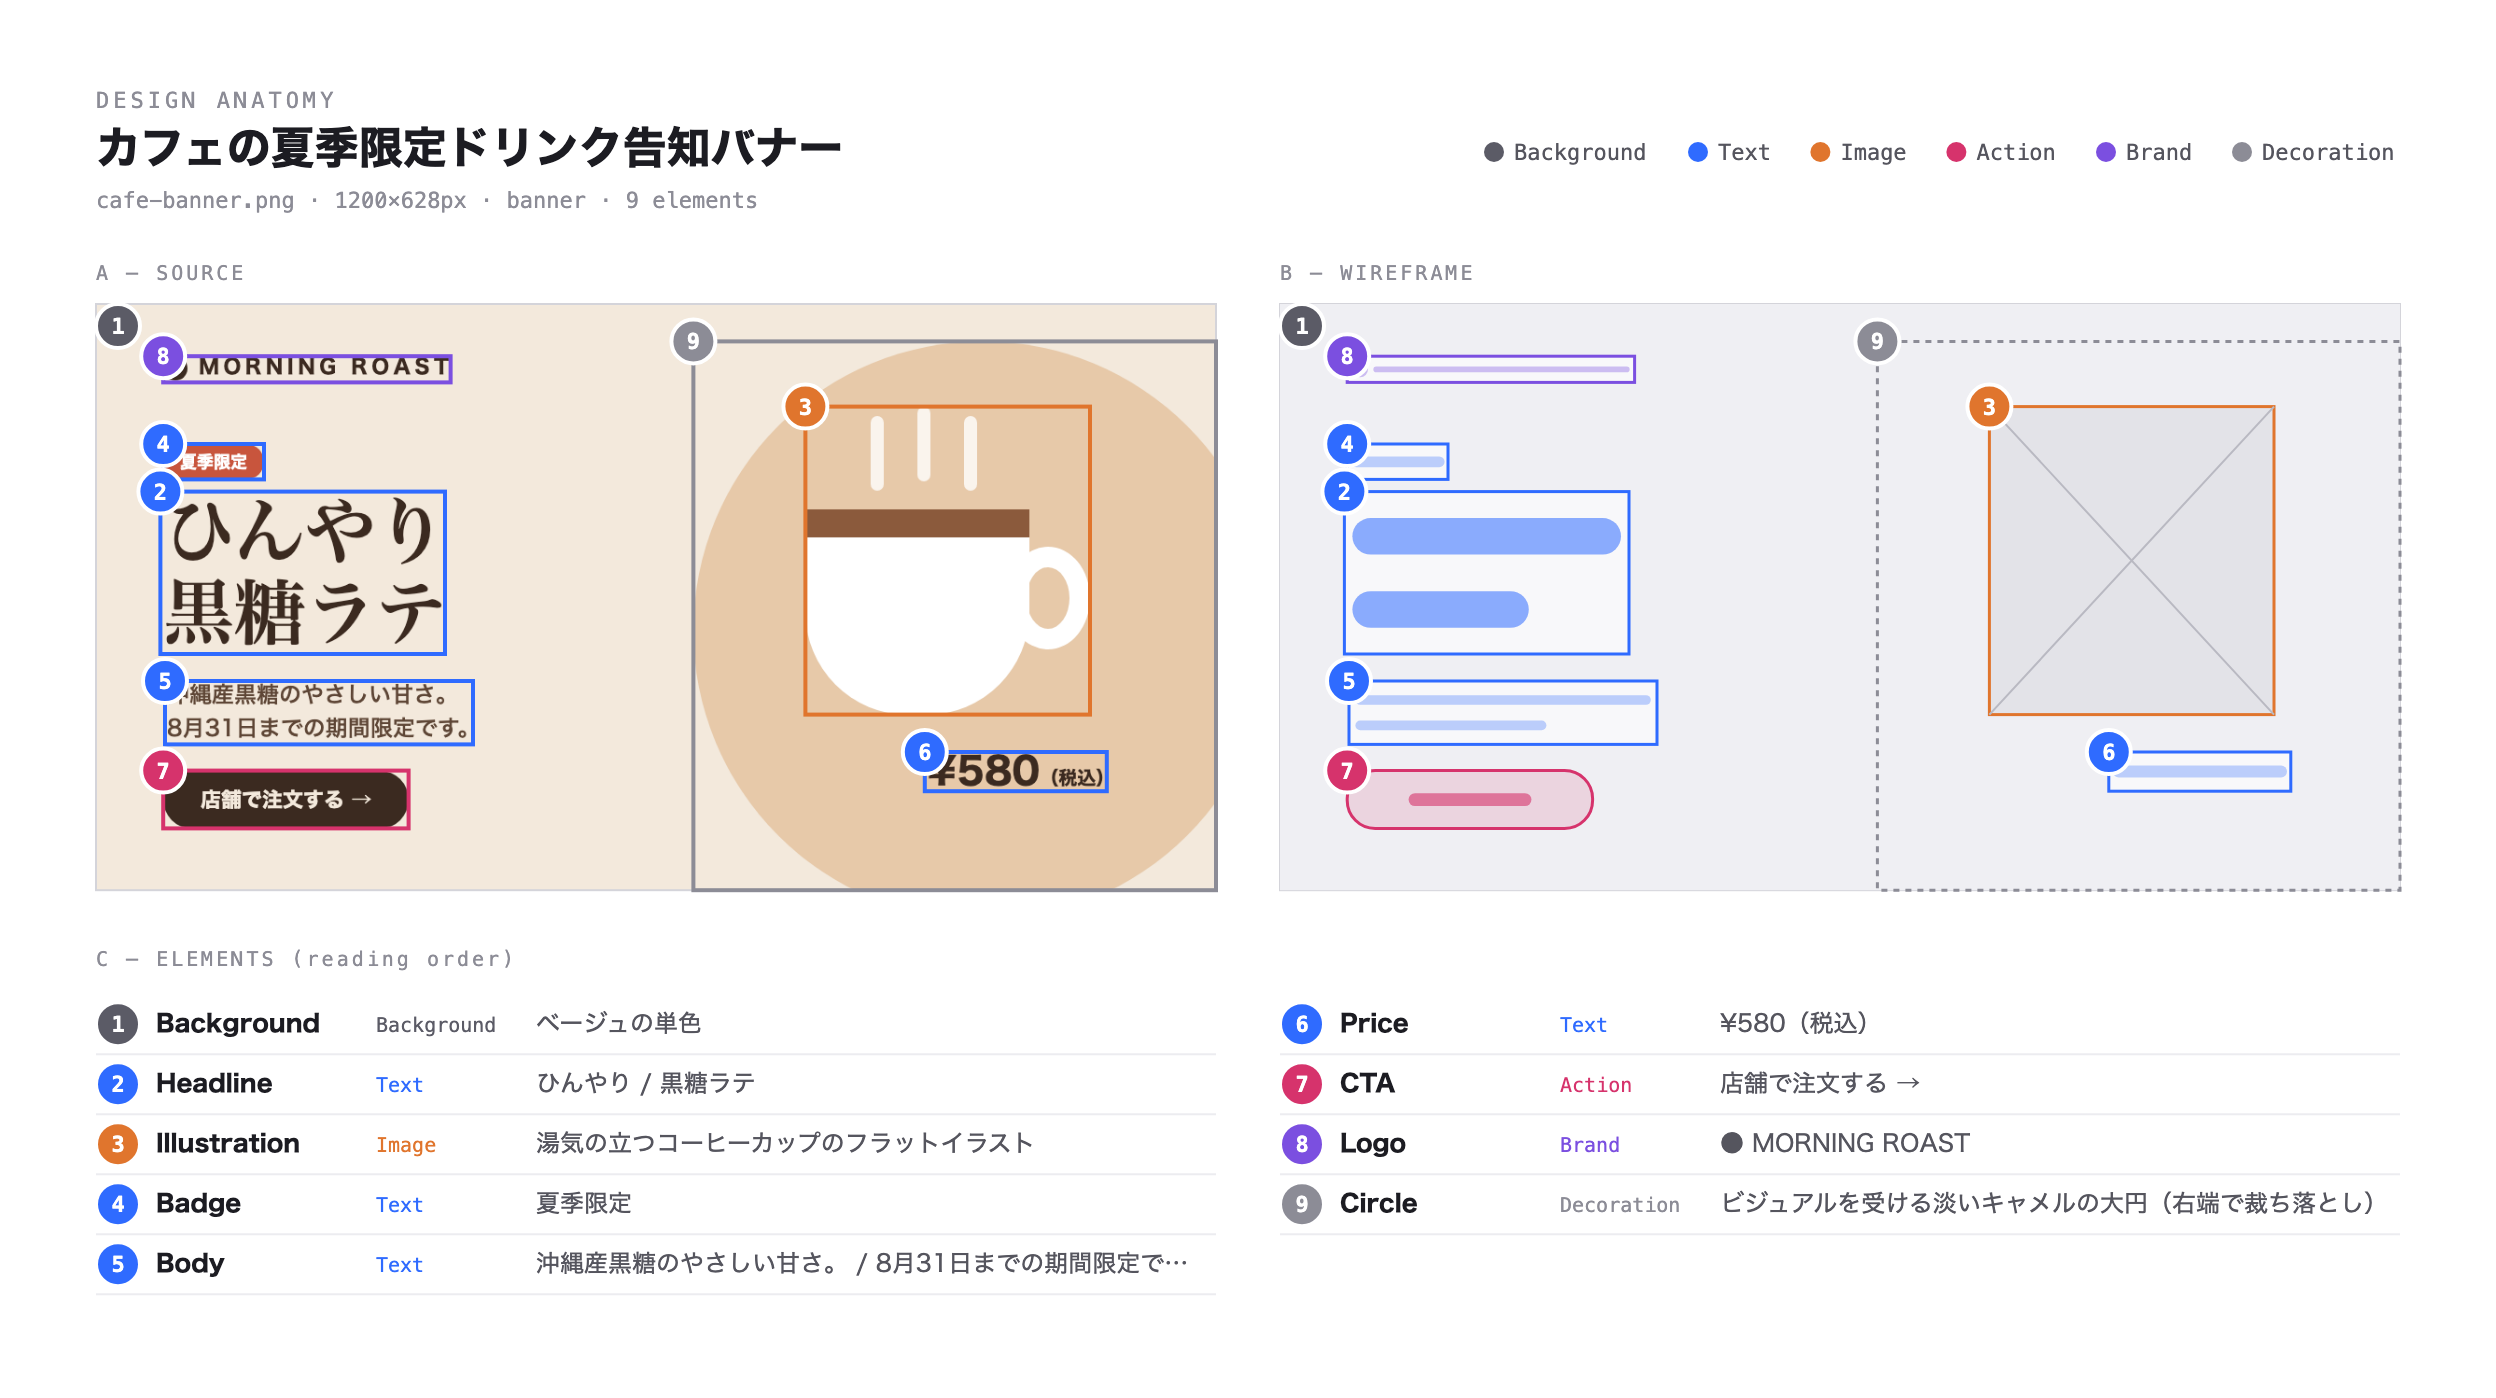
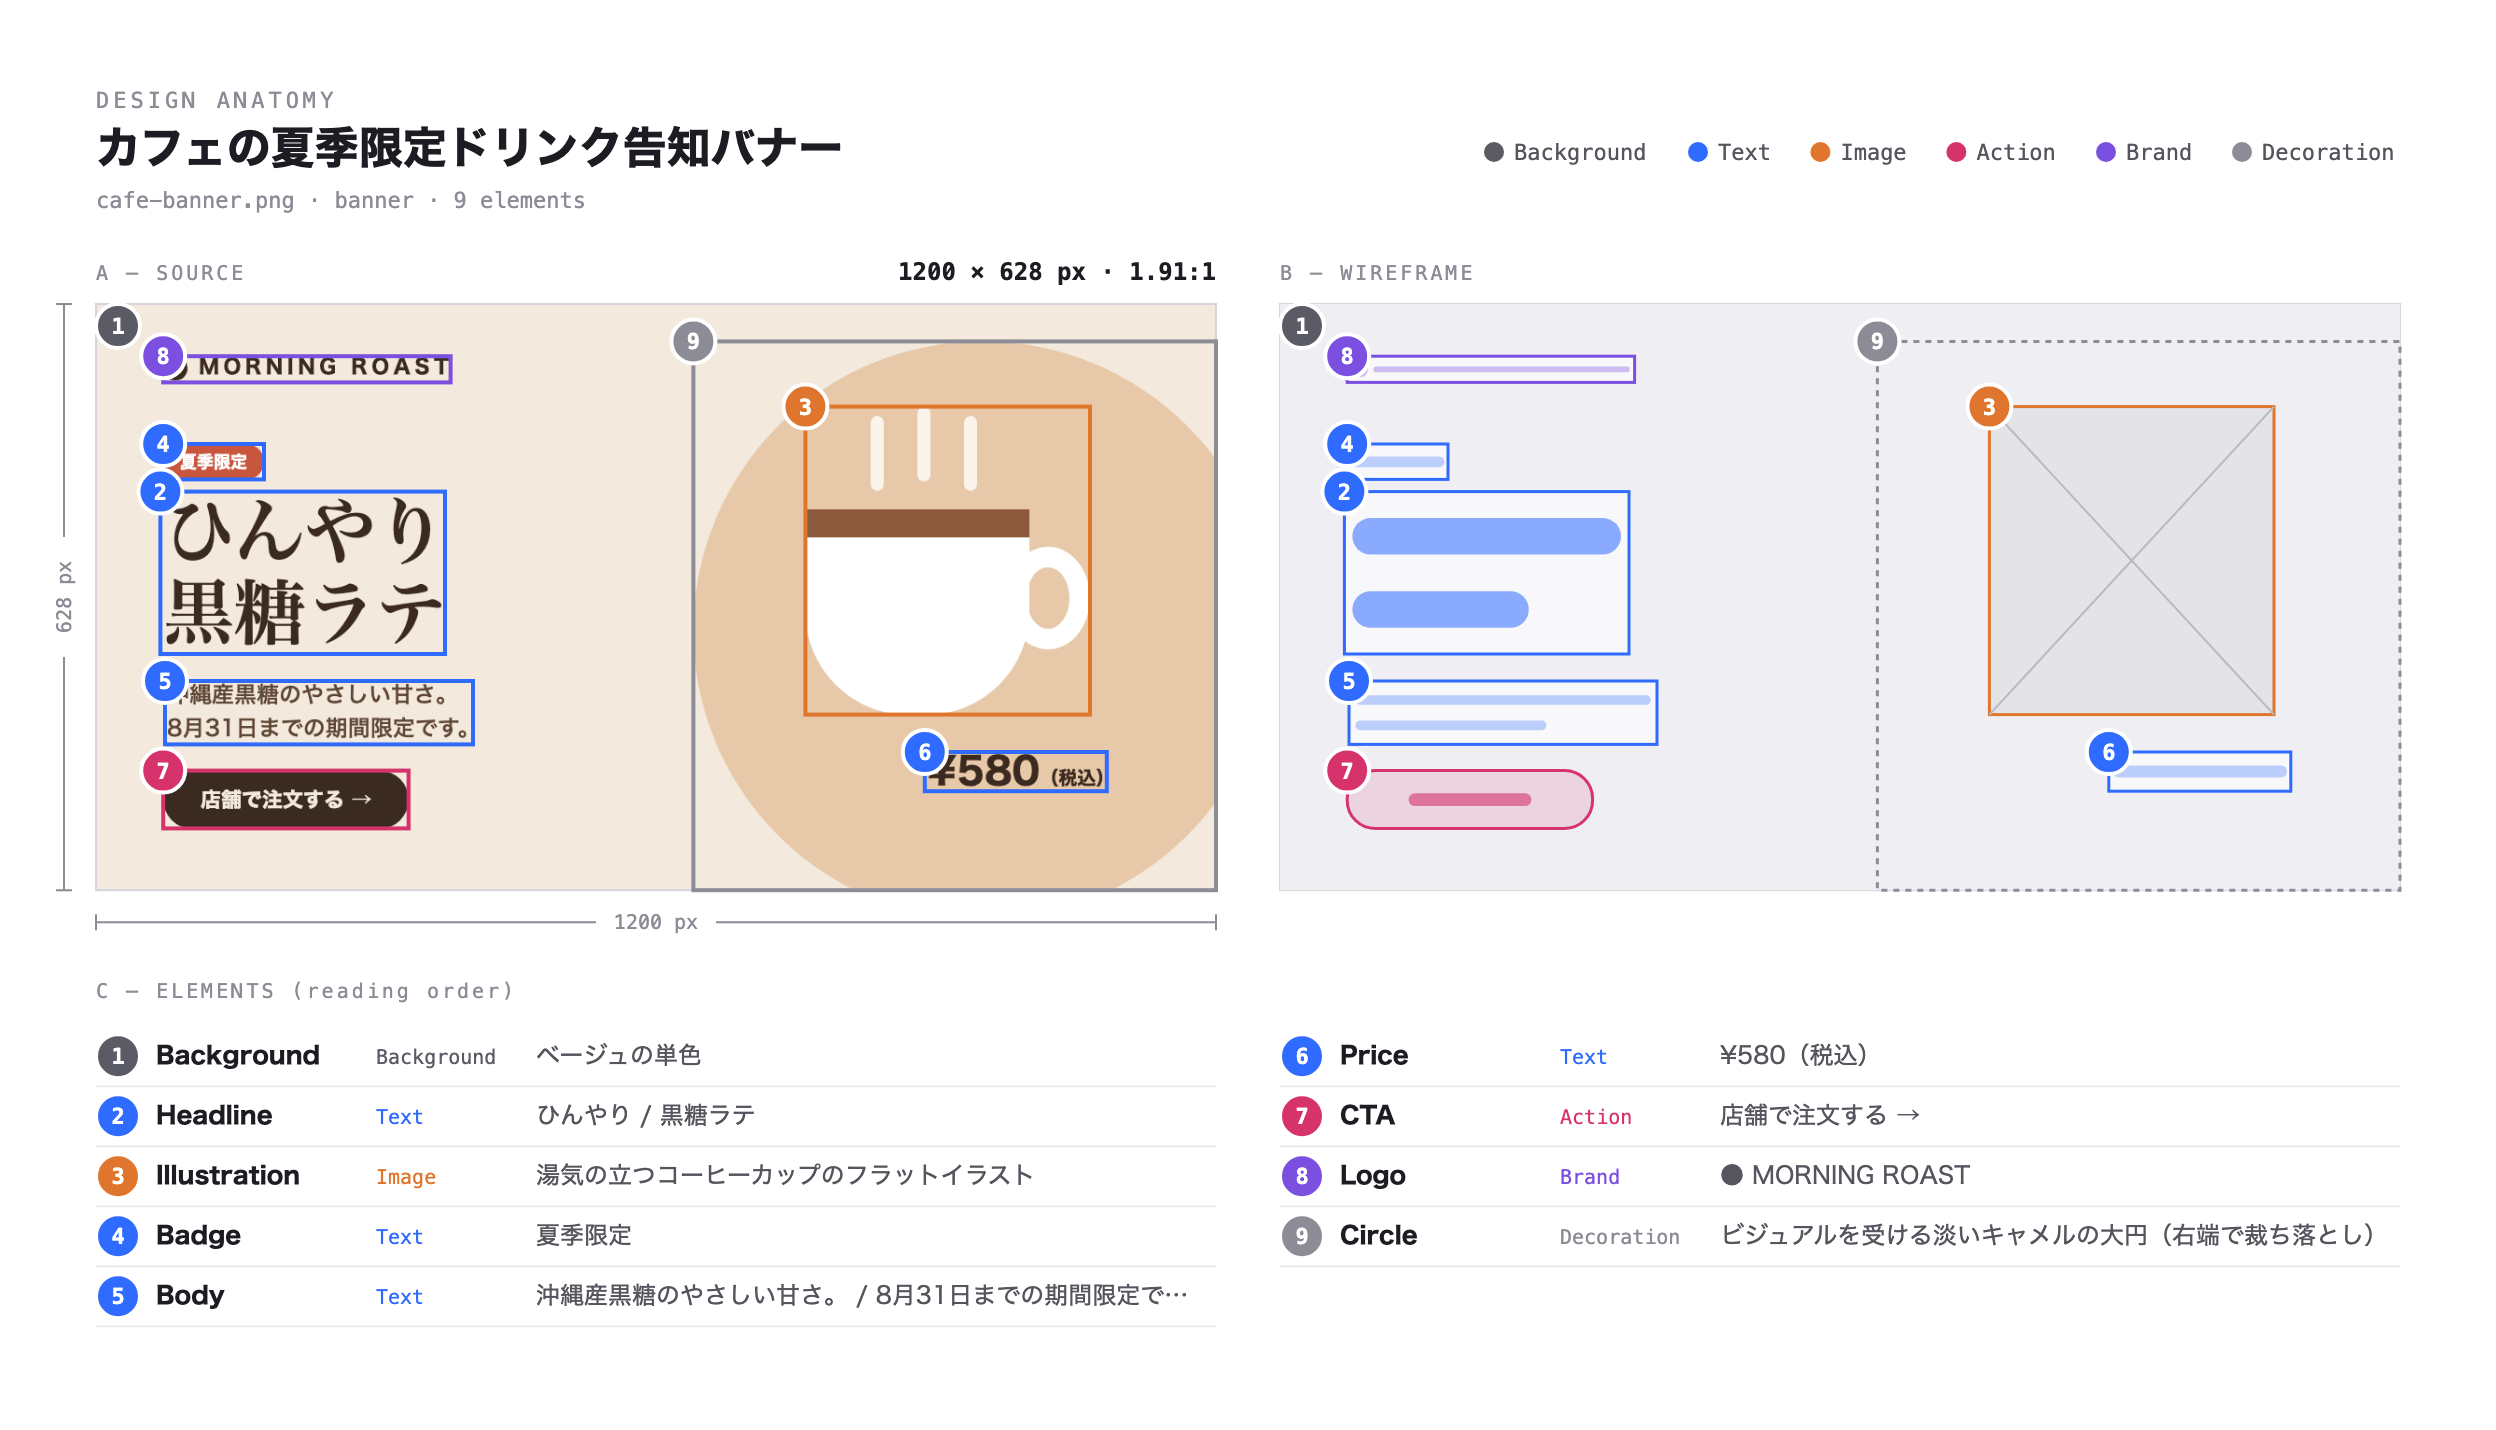
Add size annotation, unclassified roles, coverage check, and 15 new roles
- Sheet: dimension lines + 'W x H px · ratio' on the source panel
- other-text / other-image roles drawn with dashed outlines
- coverage command: OCR lines no element accounts for (--apply adds other-text)
- New roles from poster/UI/social tests: eyebrow, heading, info, list, note,
  credit, hashtag, handle, rating, qr, avatar, map, input, chip, header,
  statusbar, tabbar (definitions in references/roles.md)
- Containers draw beneath content; marker badges avoid overlaps; badge glyph

diff --git a/skills/design-anatomy/references/roles.md b/skills/design-anatomy/references/roles.md
@@ -1,0 +1,89 @@
+# Role reference
+
+Each role belongs to a **group** that decides its color and wireframe glyph in the sheet.
+Pick the most specific role that fits; when two fit, prefer the one that says *what job the element does* for the viewer.
+
+## Background
+
+| role | use for | examples |
+|---|---|---|
+| `background` | the full-bleed base. Usually one element covering the canvas. Put the photo/color/gradient description in `content`. | 単色, グラデーション, 全面写真 |
+
+## Text
+
+| role | use for | examples |
+|---|---|---|
+| `headline` | the largest, first-read copy. One per design (UI: the page title). | 「ひんやり黒糖ラテ」 |
+| `subheadline` | copy that directly supports the headline: a second line, a translation, a tagline. | "Coffee & the morning of the town" |
+| `eyebrow` | small text placed *above* the headline that frames it: event/series name, category, kicker. | 「KOBE COFFEE WEEK」, 「NEW ARRIVAL」 |
+| `heading` | a section title inside the design (not the main headline). | UI の「おすすめ」 |
+| `body` | explanatory sentences. | 「沖縄産黒糖のやさしい甘さ。」 |
+| `list` | enumerated items: steps, bullet points, features. Use `lines` for the item count. | ① フォロー ② いいね ③ コメント |
+| `info` | key–value details, typically date/time/venue/access, often aligned like a table. | 日時 / 時間 / 会場 |
+| `price` | prices and price notes. | ¥580（税込） |
+| `date` | a standalone date or period that is not part of an `info` block. | 8/31まで |
+| `label` | short tag-like text with no container shape (when it has a shape, use `badge`). | NEW, PR |
+| `caption` | small text describing a nearby element. | 写真の説明文 |
+| `note` | disclaimers and fine print, often starting with ※ or *. | ※雨天決行 |
+| `credit` | organizer, sponsor, copyright, photo credit. | 主催：〇〇実行委員会, © 2026 |
+| `hashtag` | hashtags. | #神戸カフェ |
+| `handle` | social account names / URLs used as an identity. | @morning_roast |
+| `rating` | stars or scores. | ★★★★☆ 4.3（128） |
+| `copy` | marketing copy that is clearly text but none of the above. Prefer a specific role. | |
+| `other-text` | **text you can see but whose role you can't decide.** Drawn with a dashed outline. Also what `coverage --apply` adds for OCR lines no element covers — revisit those. | |
+
+## Image
+
+| role | use for |
+|---|---|
+| `photo` | photographs (including cut-out photos). |
+| `illustration` | drawn/vector/3D artwork. |
+| `product` | the thing being sold, whatever the medium (prefer this over photo/illustration when it is the product). |
+| `character` | mascots and characters. |
+| `icon` | small symbolic pictograms. |
+| `avatar` | profile pictures (UI). |
+| `qr` | QR codes and barcodes. |
+| `map` | maps and access diagrams. |
+| `other-image` | **imagery whose role you can't decide.** Dashed outline. |
+
+## Action
+
+| role | use for |
+|---|---|
+| `cta` | the primary call to action. Usually one. |
+| `button` | other buttons, including floating action buttons. |
+| `link` | text links ("すべて見る"). |
+| `input` | text fields, search boxes, selects. |
+| `chip` | filter chips / segmented choices. One element for the whole row is fine; mark the selected one in `content`. |
+
+## Brand
+
+| role | use for |
+|---|---|
+| `logo` | logos, wordmarks, brand symbols. |
+
+## Decoration
+
+| role | use for |
+|---|---|
+| `badge` | a shape carrying a short message: ribbons, seals, starbursts, pills. Put its text in `content`. |
+| `shape` | background shapes that organize the layout (circles, blobs, color blocks). |
+| `divider` | rules and separators. |
+| `decoration` | ornaments with no message (sparkles, patterns). |
+
+## Container
+
+| role | use for |
+|---|---|
+| `frame` | a border around the whole design. |
+| `card` | a repeated content unit. |
+| `container` | any other grouping region. |
+| `header` / `nav` | top bars and navigation. |
+| `statusbar` | the OS status bar in screenshots. |
+| `tabbar` | bottom tab navigation. |
+
+Children of a container point to it with `parent`. A container that has children is treated as a frame only (its children carry the content).
+
+## Fallback
+
+`other` — when even the group is unclear. Dashed outline, gray.

diff --git a/skills/design-anatomy/SKILL.md b/skills/design-anatomy/SKILL.md
@@ -36,25 +36,28 @@ node scripts/anatomy.mjs ocr <image>          # auto: macOS Vision → tesseract
 
 ### 3. Look and decide
 
-View the image yourself. For each meaningful element decide:
+View the image yourself and assign each meaningful element a **role**. Roles by group (full definitions and examples: `references/roles.md` — read it when unsure):
 
-| role | use for |
+| group | roles |
 |---|---|
-| `background` | the full-bleed base (color, photo, gradient). Usually one, covering the canvas. |
-| `headline` / `subheadline` / `body` / `caption` | text by hierarchy. The largest, most attention-grabbing copy is `headline`. |
-| `price` / `date` / `label` | text with a specific job (prices, dates/periods, small tags like "NEW"). |
-| `illustration` / `photo` / `product` / `character` / `icon` | imagery. Pick by how it was made and what it shows. |
-| `cta` / `button` / `link` | anything asking for action ("詳しくはこちら", "予約する"). |
-| `logo` | brand marks and wordmarks. |
-| `badge` / `decoration` / `shape` / `divider` | ornaments, ribbons, seals, lines, frames that carry no message by themselves. |
-| `container` / `card` / `frame` / `nav` | regions that group other elements (use `parent` on children). |
-| `other` | only if nothing above fits. |
+| Background | `background` |
+| Text | `headline` `subheadline` `eyebrow` `heading` `body` `list` `info` `price` `date` `label` `caption` `note` `credit` `hashtag` `handle` `rating` `copy` · `other-text` |
+| Image | `photo` `illustration` `product` `character` `icon` `avatar` `qr` `map` · `other-image` |
+| Action | `cta` `button` `link` `input` `chip` |
+| Brand | `logo` |
+| Decoration | `badge` `shape` `divider` `decoration` |
+| Container | `frame` `card` `container` `header` `nav` `statusbar` `tabbar` |
+| Fallback | `other` |
+
+**Can't decide?** Use `other-text` for text and `other-image` for imagery (`other` if even the group is unclear). They are drawn with a dashed outline so the user sees what is unresolved. Don't force a wrong role.
 
 Rules:
 - **Order `elements` by reading order** (where the eye goes first → last), with `background` first. The sheet numbers follow this order.
 - Text roles: `content` is the **exact visible text** (`\n` for line breaks). Never invent copy.
 - Image roles: `content` is a short description of what is depicted ("湯気の立つコーヒーカップのイラスト").
-- Prefer fewer, meaningful elements over many fragments (aim for 4–15).
+- Prefer fewer, meaningful elements over many fragments (aim for 4–15; UI screens may need up to ~20).
+- **Repeated components** (cards, list rows): break down the first instance with `parent`, then add the rest as single `card` elements whose `content` says "same structure as card1".
+- OCR misreads happen (dropped kanji, wrong star counts). Always check text against the image.
 - Put a `confidence` (0–1) on anything you're unsure about, and note uncertainties in `notes`.
 - Add 2–5 `notes` about the layout itself: grid/alignment, hierarchy, visual flow, whitespace — this is the design insight the user is after.
 
@@ -77,6 +80,16 @@ Save next to the image as `<image-name>.anatomy.json`. Schema: `schema/anatomy.s
 
 `source.path` is relative to the JSON file.
 
+### 4b. Check coverage (when OCR ran)
+
+Save the OCR output (e.g. `<image-name>.ocr.json`) and run:
+
+```bash
+node scripts/anatomy.mjs coverage <image-name>.anatomy.json <image-name>.ocr.json
+```
+
+It lists OCR lines that no element accounts for. Add them to the right element, or run with `--apply` to append them as `other-text`, then reclassify what you can.
+
 ### 5. Render and self-check
 
 ```bash
@@ -92,7 +105,11 @@ Then **look at the PNG** — panel A shows your boxes over the original. If boxe
 
 ### 6. Report
 
-Give the user: the sheet path, the element list (number · role · content), and your layout notes. Keep it short.
+Give the user, briefly:
+- **Size**: `width × height px` and aspect ratio (also printed on the sheet, e.g. `1080 × 1350 px · 4:5`).
+- The sheet path.
+- The element list (number · role · content), calling out any `other-*` elements as unresolved.
+- Your layout notes.
 
 ## Optional integrations
 

diff --git a/README.md b/README.md
@@ -44,7 +44,8 @@ Or run the script directly:
 ```bash
 S=skills/design-anatomy/scripts/anatomy.mjs
 node $S probe banner.png
-node $S ocr banner.png
+node $S ocr banner.png > banner.ocr.json
+node $S coverage banner.anatomy.json banner.ocr.json   # OCR text no element covers
 node $S validate banner.anatomy.json
 node $S render banner.anatomy.json --png                 # sheet
 node $S render banner.anatomy.json --mode wireframe --png
@@ -52,9 +53,20 @@ node $S render banner.anatomy.json --mode wireframe --png
 
 ## Roles / 役割
 
-`background` · `headline` `subheadline` `body` `caption` `price` `date` `label` · `illustration` `photo` `product` `character` `icon` · `cta` `button` `link` · `logo` · `badge` `decoration` `shape` `divider` · `container` `card` `frame` `nav` · `other`
+| group | roles |
+|---|---|
+| Background | `background` |
+| Text | `headline` `subheadline` `eyebrow` `heading` `body` `list` `info` `price` `date` `label` `caption` `note` `credit` `hashtag` `handle` `rating` `copy` · `other-text` |
+| Image | `photo` `illustration` `product` `character` `icon` `avatar` `qr` `map` · `other-image` |
+| Action | `cta` `button` `link` `input` `chip` |
+| Brand | `logo` |
+| Decoration | `badge` `shape` `divider` `decoration` |
+| Container | `frame` `card` `container` `header` `nav` `statusbar` `tabbar` |
 
-Each role belongs to a color group (Text / Image / Action / Brand / Decoration / Container) used in the sheet.
+Elements the agent can't classify become `other-text` / `other-image` (dashed outline). `coverage` flags OCR text that no element accounts for.
+分類できない要素は `other-text` / `other-image`（破線）になり、`coverage` が拾い漏れた文字を検出します。
+
+Definitions: [references/roles.md](skills/design-anatomy/references/roles.md)
 
 ## License
 
